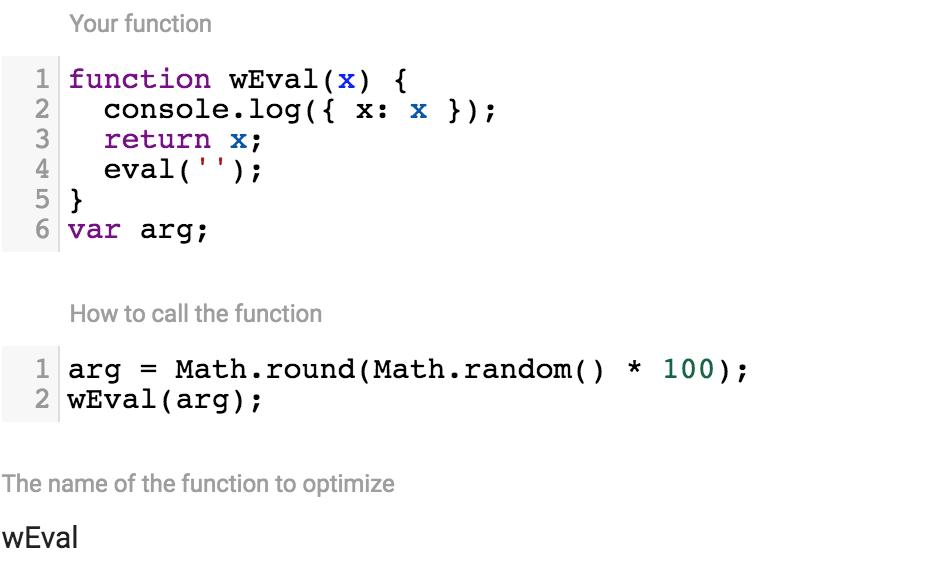
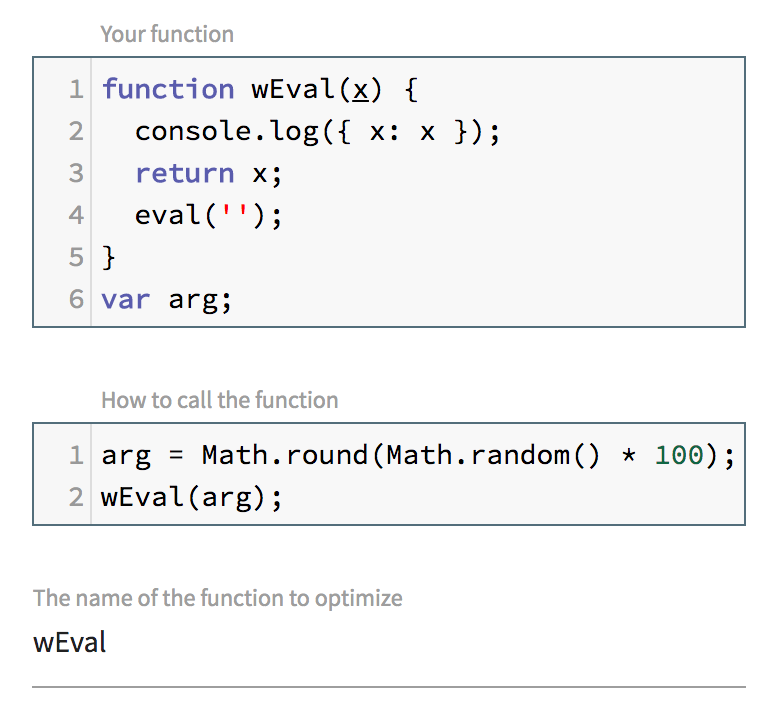
New screenshots

diff --git a/webapp/imports/ui/components/jobs/jobForm.html b/webapp/imports/ui/components/jobs/jobForm.html
@@ -1,7 +1,7 @@
 <template name="jobForm">
   <div class="row">
     <div class="col s12">
-      <h5>
+      <h5 class="bold">
         Choose node versions ({{ length job.nodes }}/{{ maxContainersPerJob }})
         <small class="right">
           <a href="https://github.com/vhf/monomorphist/issues/new" target="_blank">Request a node version</a>
@@ -36,7 +36,7 @@
   </div>
   <div class="row">
     <div class="col s12">
-      <h5>Enter your code</h5>
+      <h5 class="bold">Enter your code</h5>
       <p>First a function definition, then how to call the function, finally the function name. Hit <key>enter</key> to create a new line.</p>
     </div>
   </div>

diff --git a/webapp/imports/ui/pages/home.html b/webapp/imports/ui/pages/home.html
@@ -38,10 +38,10 @@
   </p>
   <ul class="list">
     <li>
-      The first one helps finding which JavaScript functions trigger a
-      deoptimization or a <a
+      The first one shows the <strong>optimization status of JavaScript
+      functions</strong>. Its main purpose is to spot deoptimizations and <a
       href="https://github.com/vhf/v8-bailout-reasons"
-      target="_blank">V8 bailout</a>.
+      target="_blank">Crankshaft bailouts</a>.
       <p>
         <a href="/bailout">See how</a>, with pictures and examples
       </p>

diff --git a/webapp/imports/ui/components/irjobs/irjobForm.html b/webapp/imports/ui/components/irjobs/irjobForm.html
@@ -1,7 +1,7 @@
 <template name="irjobForm">
   <div class="row">
     <div class="col s12">
-      <h5>
+      <h5 class="bold first">
         <span class="d8-modal-trigger">Choose v8 version</span>
         <small class="right">
           <a href="https://github.com/vhf/monomorphist/issues/new" target="_blank">Request a v8 version</a>
@@ -27,7 +27,7 @@
   </div>
   <div class="row">
     <div class="col s12">
-      <h5>Enter your code</h5>
+      <h5 class="bold between">Enter your code</h5>
     </div>
   </div>
   <div class="row">

diff --git a/webapp/imports/ui/components/jobs/nodeInfoModal.html b/webapp/imports/ui/components/jobs/nodeInfoModal.html
@@ -1,7 +1,7 @@
 <template name="nodeInfoModal">
   <div id="node-info-modal" class="modal bottom-sheet">
     <div class="modal-content compact">
-      <h5>Available node versions</h5>
+      <h5 class="bold">Available node versions</h5>
       <table id="node-versions-table" class="bordered highlight compact">
         <thead>
           <tr>

diff --git a/webapp/imports/ui/components/irjobs/v8InfoModal.html b/webapp/imports/ui/components/irjobs/v8InfoModal.html
@@ -1,7 +1,7 @@
 <template name="v8InfoModal">
   <div id="d8-info-modal" class="modal bottom-sheet">
     <div class="modal-content compact">
-      <h5>Available d8 versions</h5>
+      <h5 class="bold">Available d8 versions</h5>
       <table id="d8-versions-table" class="bordered highlight compact">
         <thead>
           <tr>

diff --git a/webapp/client/stylesheets/style.scss b/webapp/client/stylesheets/style.scss
@@ -138,3 +138,18 @@ ul.list {
     list-style-type: square;
   }
 }
+
+h1, h2, h3, h4, h5 {
+  &.bold {
+    font-weight: 600;
+  }
+  &.first {
+    margin: 1.82rem 0 0 0;
+  }
+  &.between {
+    margin: 0;
+  }
+  &.last {
+    margin: 0 0 0.656rem 0;
+  }
+}

diff --git a/webapp/imports/ui/pages/new.html b/webapp/imports/ui/pages/new.html
@@ -1,5 +1,5 @@
 <template name="new">
-  <h2 class="subtitle">Two Options</h2>
+  <h2 class="subtitle bold">Two Options</h2>
 
   <ol>
     <li>Check a JavaScript function simultaneously on <a class="node-modal-trigger">various Node versions</a></li>
